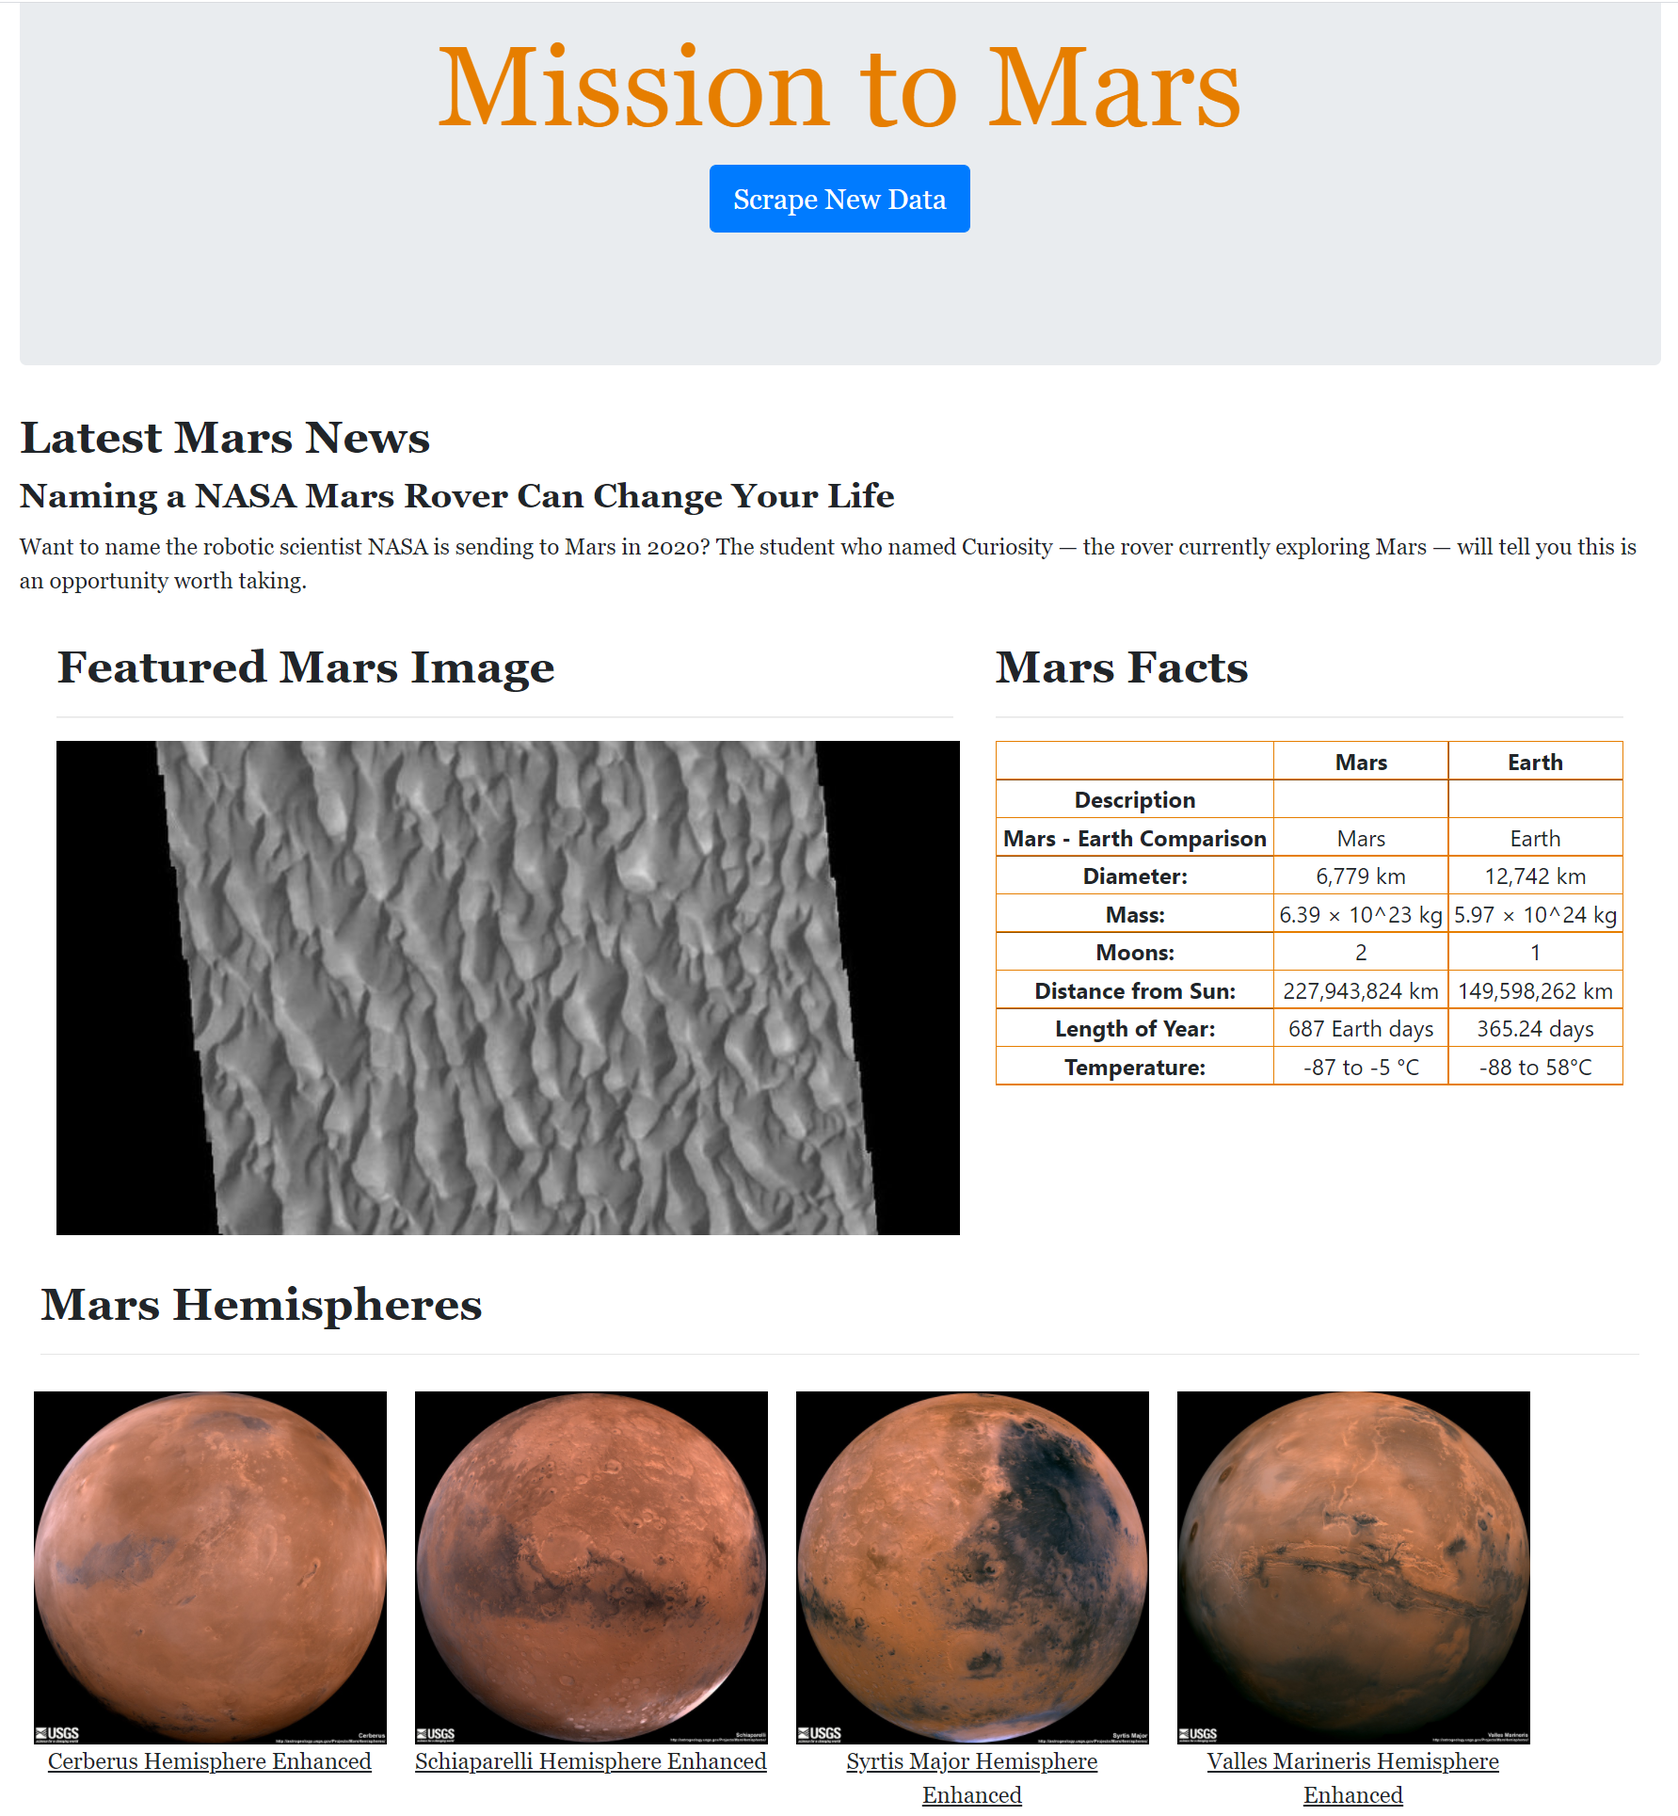
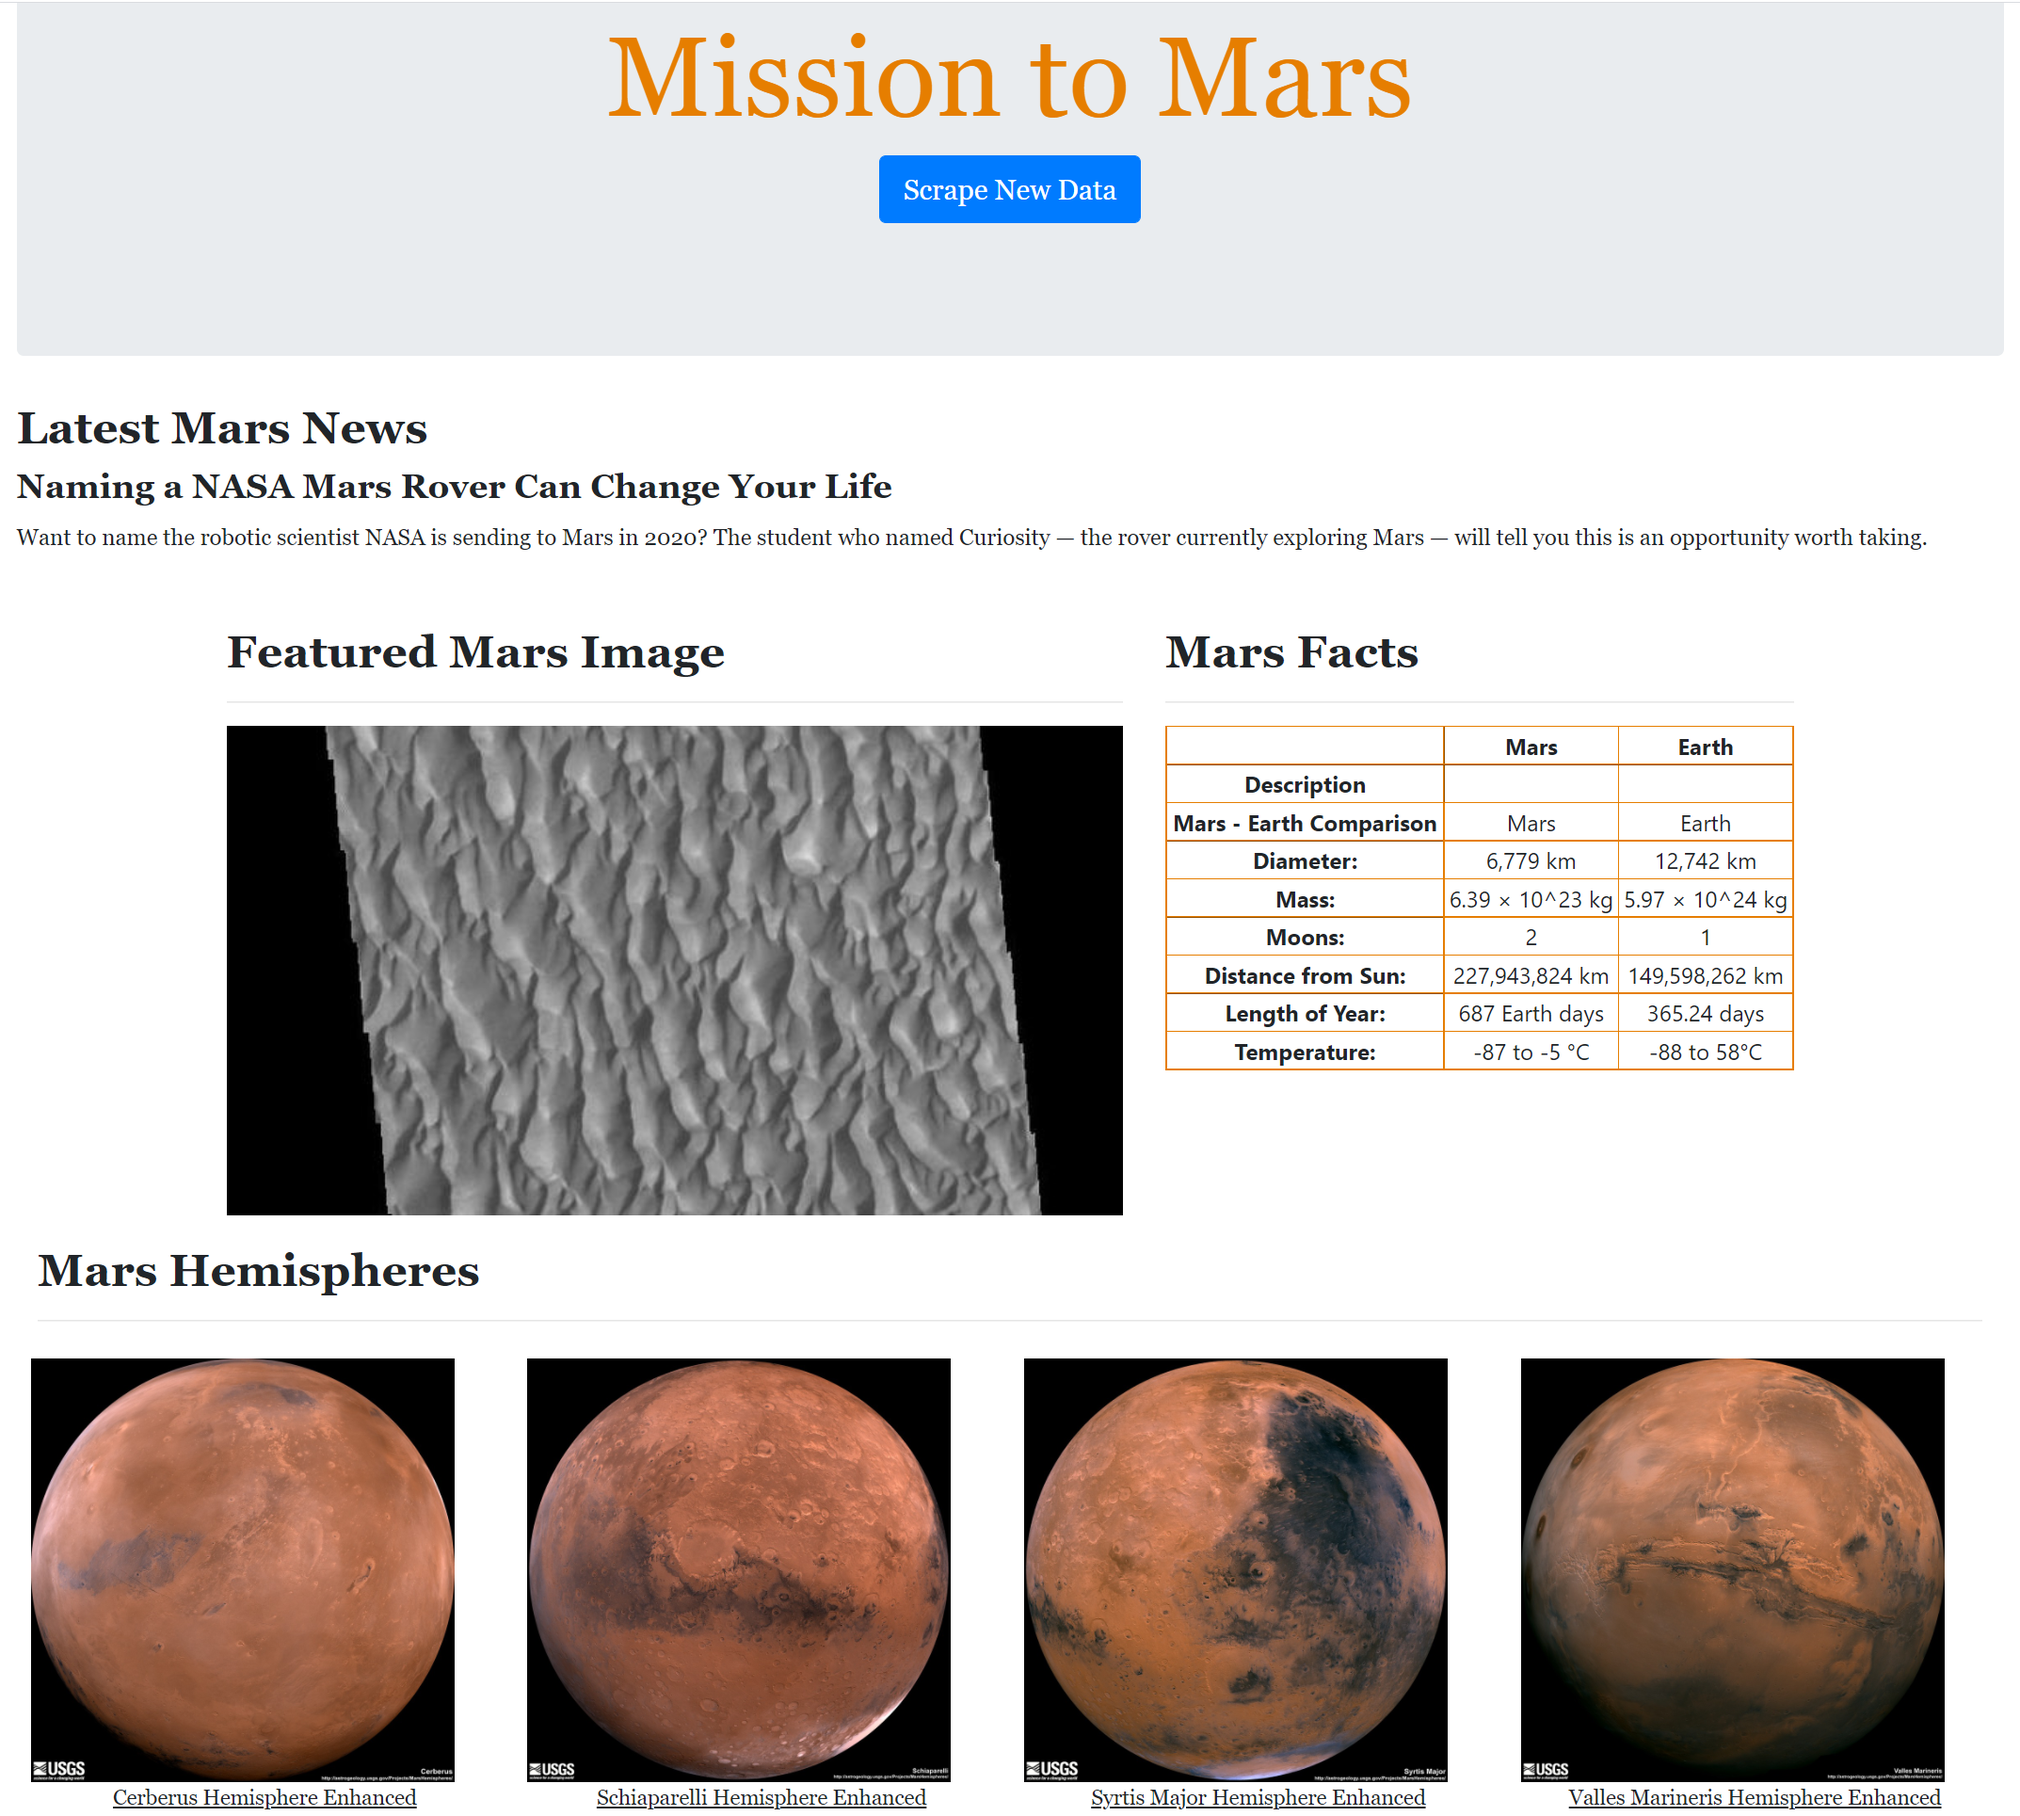
Fixed responsiveness

Changed region(s): [[0.0, 0.2177, 0.9871, 1.0], [0.2468, 0.0, 0.7403, 0.1555], [0.0617, 0.8398, 0.0925, 0.8709]]

diff --git a/Missions_to_Mars/templates/index.html b/Missions_to_Mars/templates/index.html
@@ -7,8 +7,6 @@
   <meta http-equiv="X-UA-Compatible" content="ie=edge">
   <title>Mission to Mars</title>
 
-  <!-- <link rel="stylesheet" href="https://maxcdn.bootstrapcdn.com/bootstrap/3.3.7/css/bootstrap.min.css">  --> 
-
   <link rel="stylesheet" href="https://cdn.jsdelivr.net/npm/bootstrap@4.6.0/dist/css/bootstrap.min.css" integrity="sha384-B0vP5xmATw1+K9KRQjQERJvTumQW0nPEzvF6L/Z6nronJ3oUOFUFpCjEUQouq2+l" crossorigin="anonymous"> 
 
   <link rel="stylesheet" href="https://maxcdn.bootstrapcdn.com/bootstrap/4.5.2/css/bootstrap.min.css"> 
@@ -38,14 +36,14 @@
     <!-- Mars Featured Image and Table -->
     <div class="container">
       <div class="row">
-        <div class="col-lg-7 col-md-12">
+        <div class="col-lg-7">
           <h2>Featured Mars Image</h2>
           <hr>
           <a href="{{ mars_doc.featured_image_url }}">
-            <img src="{{ mars_doc.featured_image_url }}" class="float-left select" alt="Featured Mars Image">
+            <img src="{{ mars_doc.featured_image_url }}" class="img-fluid select" alt="Featured Mars Image">
           </a>
         </div>
-        <div class="col-lg-5 col-md-12">
+        <div class="col-lg-5">
           <h2>Mars Facts</h2>
           <hr>
           {{ mars_doc.mars_table | safe }}
@@ -53,22 +51,25 @@
       </div>
     </div> <!-- Close Mars Featured Image and Table container -->
       
-    <!-- Mars Hemispheres -->
+    <!-- Mars Hemisphere container -->
     <div class="container-fluid">
       <h2>Mars Hemispheres</h2>
       <hr>
       <div class="row">
+        <!-- start loop -->
         {% for hemi in mars_doc.hemisphere_image_urls %} 
-          <div class="img-with-text">
+          <div class="col-lg-3">
             <a href="{{ hemi.img_url }}">
-              <img src="{{ hemi.img_url }}" class="select" alt="{{ hemi.title }}" style="width:250px;height:250px;">
+              <img src="{{ hemi.img_url }}" class="img-fluid select" alt="{{ hemi.title }}" style="width:300px;height:300px;">
             </a>
             <p> {{hemi.title}} </p> 
           </div>
         {% endfor %}
       </div>
-    </div> <!-- Close Hemispheres container-fluid -->
+    </div> <!-- Close Hemisphere container-fluid -->
+  
   </div> <!-- Close container-fluid -->
+  
 </body>
 
 </html>

diff --git a/Missions_to_Mars/static/styles.css b/Missions_to_Mars/static/styles.css
@@ -1,46 +1,45 @@
+/* Main Header */
 .h1, h1 {
     font-family: "Georgia", Times, serif;
     color: #e67e00;
     font-size: 80px;
 }
-
+/* Latest Mars News, Featured Mars Image, Mars Facts, Mars Hemispheres */
 h2 {
     font-family: "Georgia", Times, serif;
     font-weight: bold;
 }
-
+/* Latest Mars News Title */
 h4 {
     font-family: "Georgia", Times, serif;
     font-weight: bold;
     margin-bottom: 10px;
 }
-
+/* Latest Mars News Paragraph */
 p {
     font-family: "Georgia", Times, serif;
     margin-bottom: 30px; 
 }
-
-.img-with-text {
+/* Featured Image Column */
+.col-lg-7,.col-md-12 {
+    padding-bottom: 20px;
+}
+/* Hemispheres Columns */
+.col-lg-3 {
+    padding: 10px;
+}
+/* Title below Hemispheres Images */
+.col-lg-3 p {
     font-family: "Georgia", Times, serif;
+    font-size: 15px;
     text-align: center;
     text-decoration: underline;
-    width: 250px;
-    margin: 10px;
-}
-
-.img-with-text img {
-    display: block; 
-    margin: 0 auto;  
 }
 
 .select:hover {
     border-style: solid;
     border-color: #e67e00;
     border-width: thick;
-}
-
-.container {
-    margin-bottom: 30px;
 }
 
 table {
